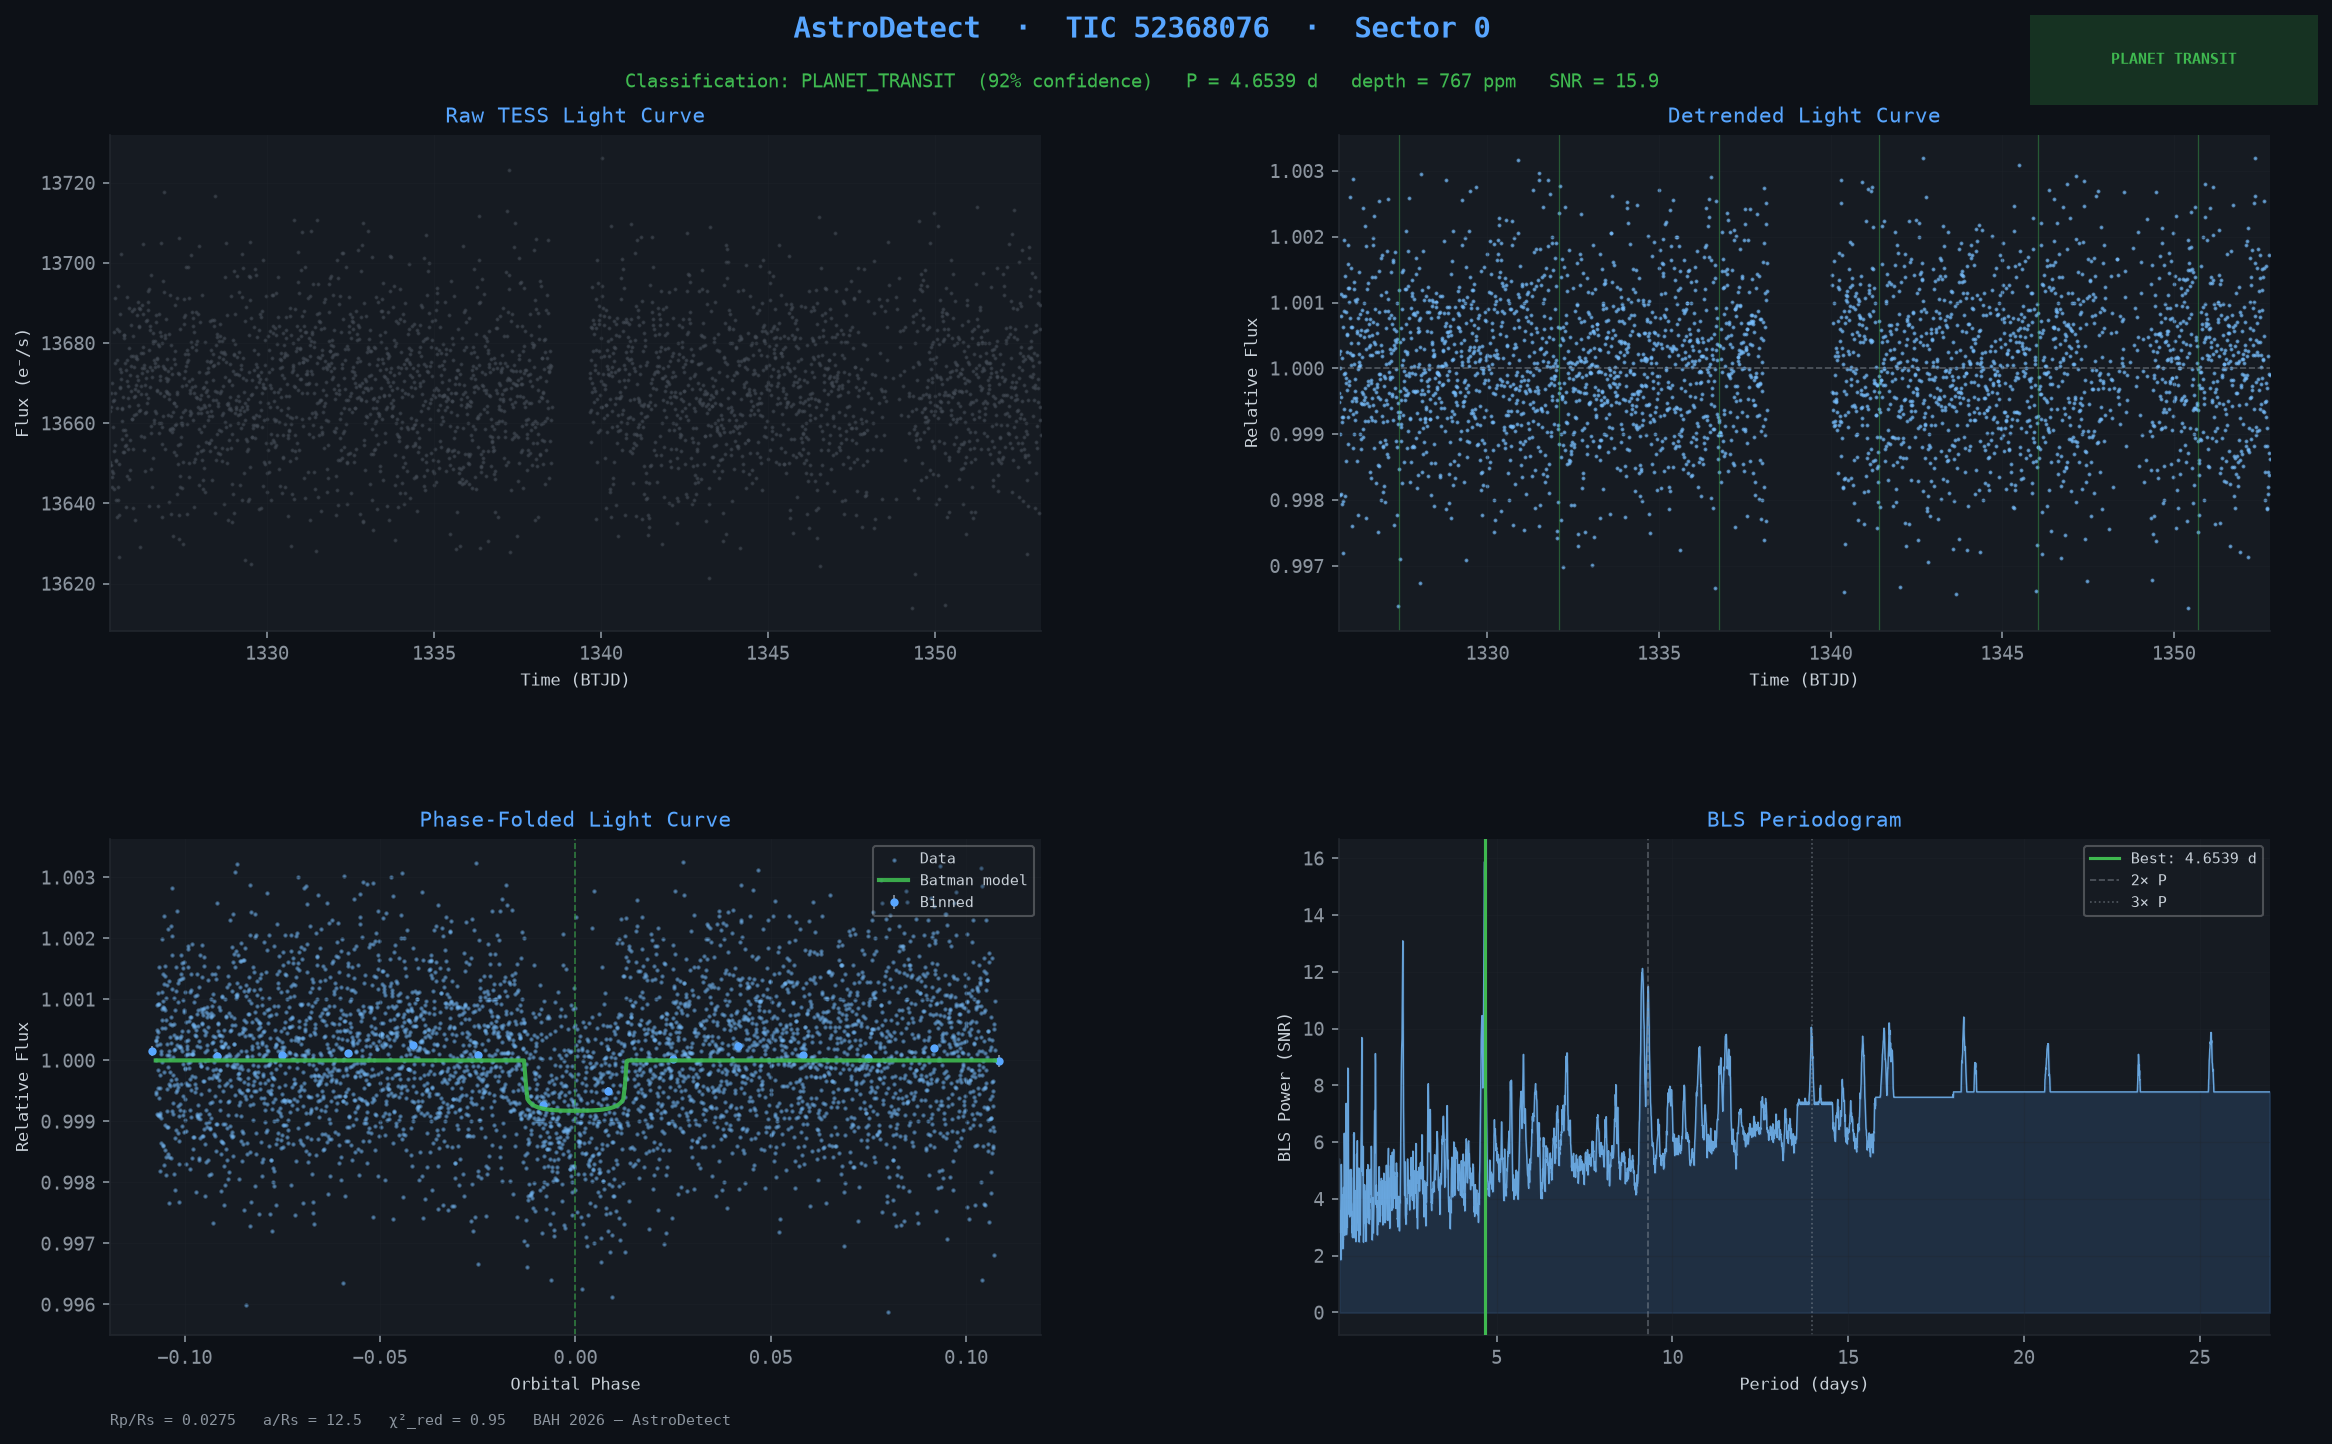
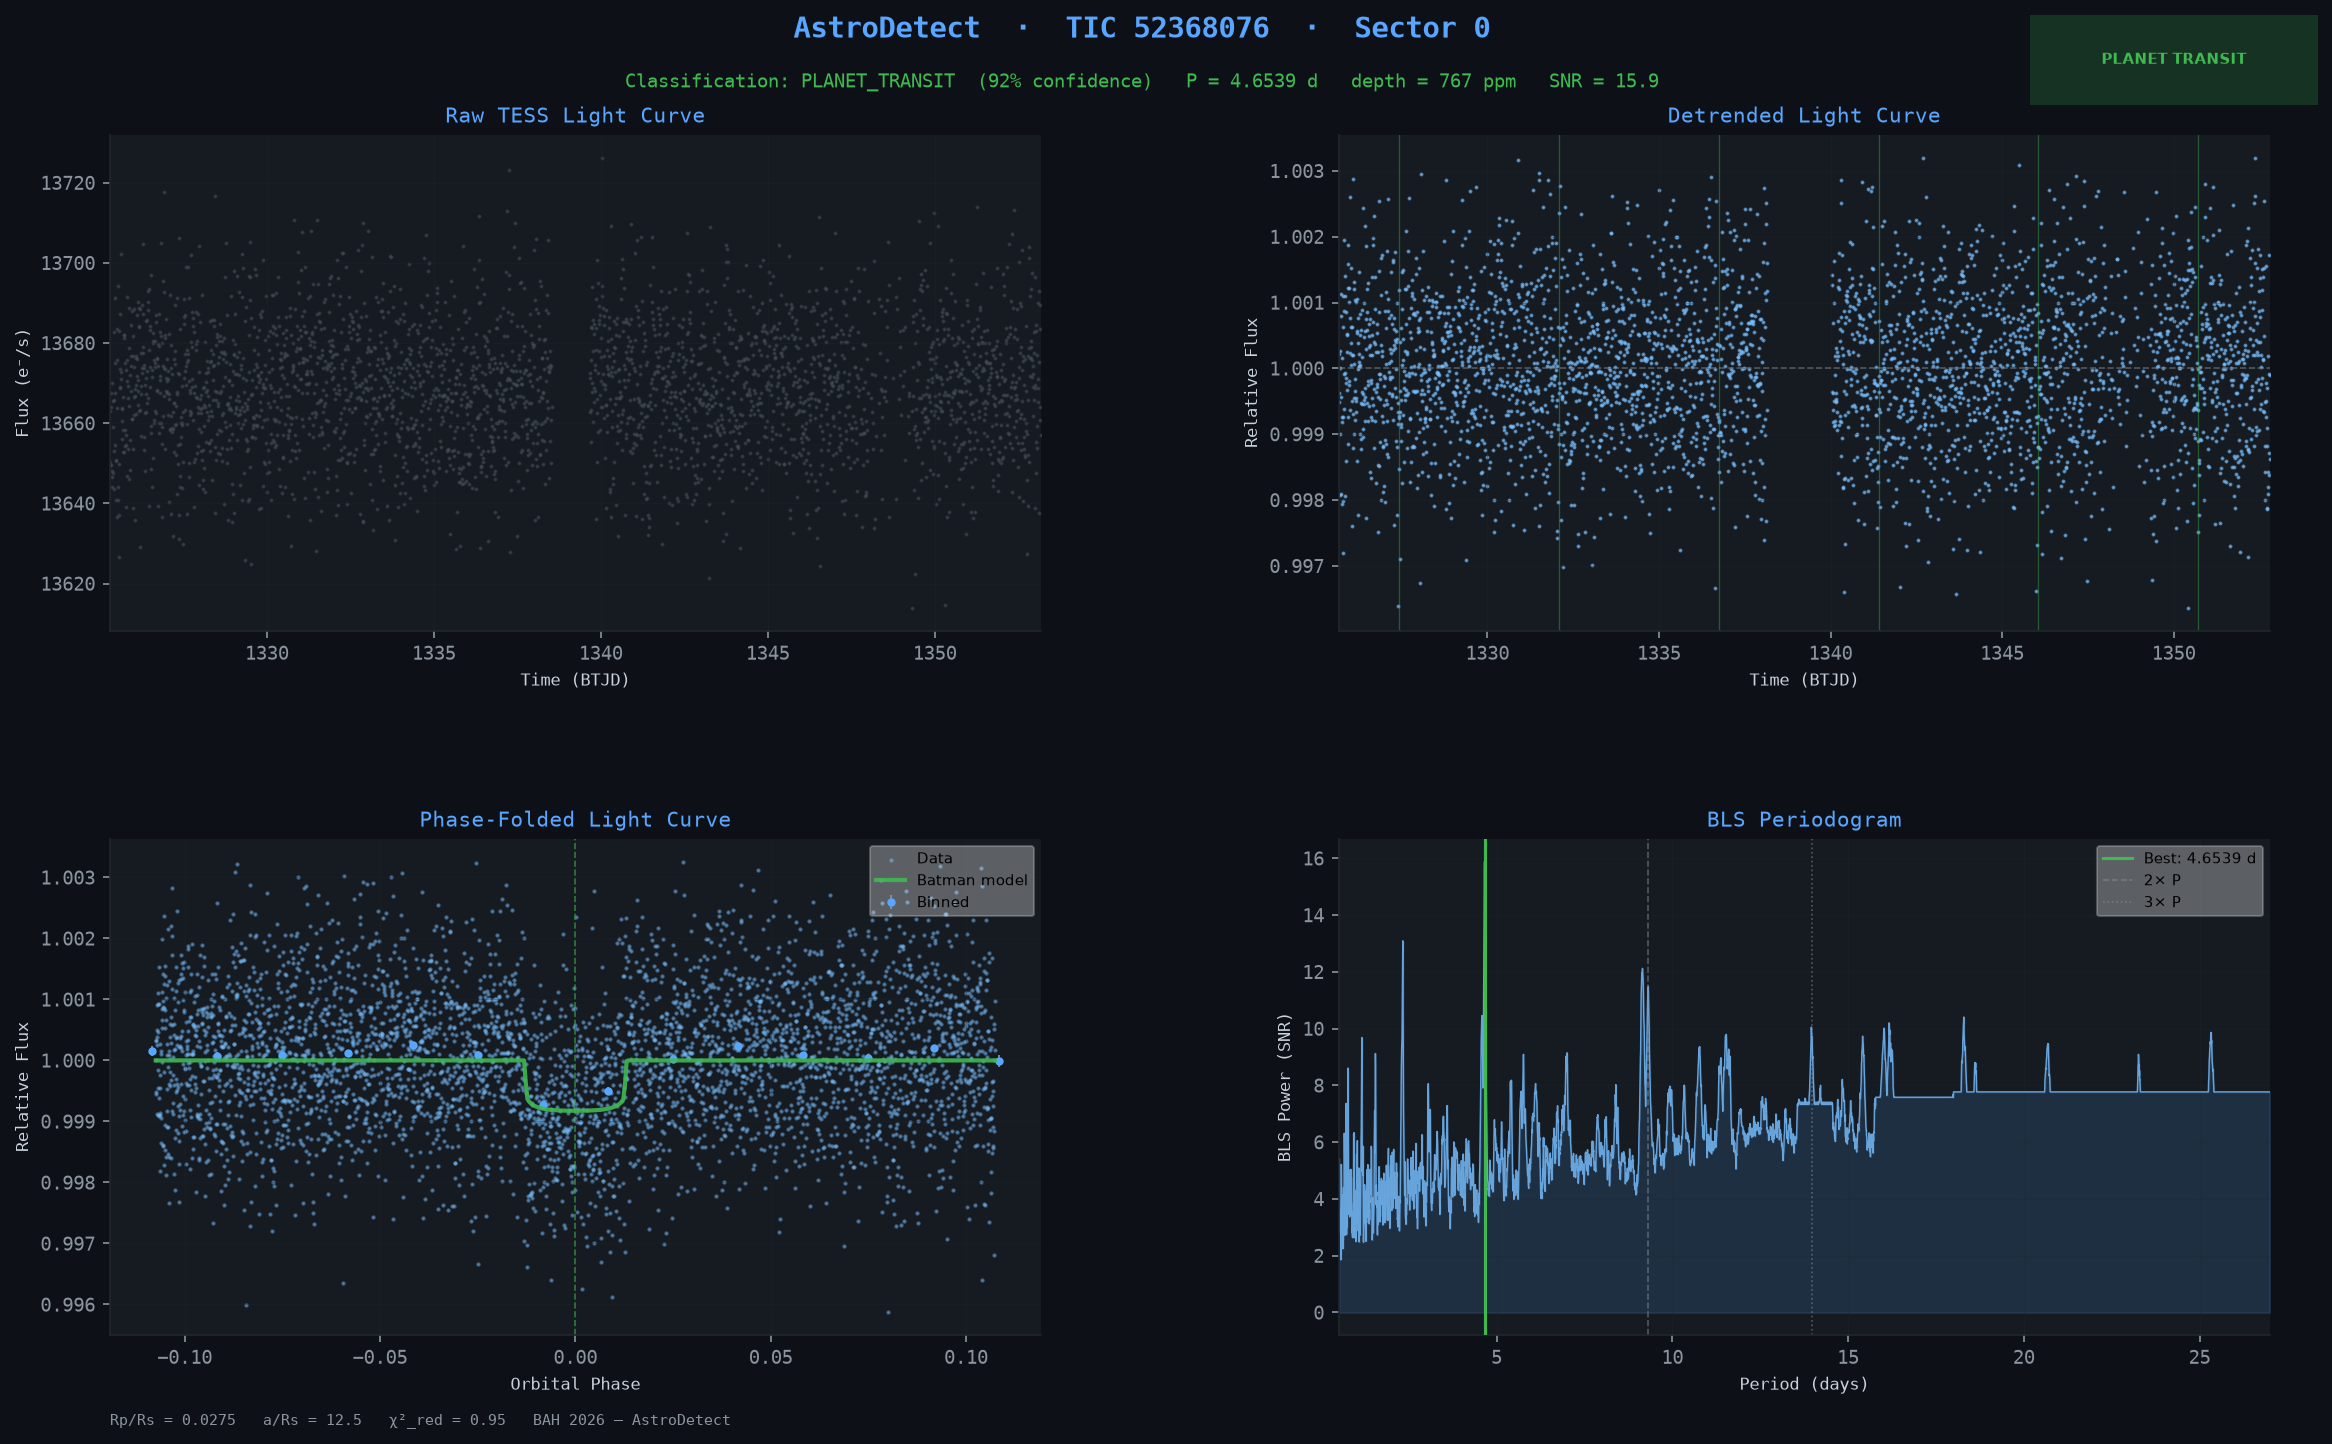
chore: ignore output images and update documentation with tech stack details

Changed region(s): [[0.8954, 0.5609, 0.988, 0.6544], [0.3705, 0.5609, 0.4631, 0.6544], [0.8954, 0.0312, 0.9571, 0.0623]]

diff --git a/README.md b/README.md
@@ -12,6 +12,26 @@ An end-to-end, AI-driven data analysis pipeline designed to detect and classify 
 
 ---
 
+## 🛠️ Tech Stack
+
+### Frontend (User Interface)
+* **[Next.js](https://nextjs.org/) & React:** The core framework used for building a fast, interactive, and modern single-page application.
+* **[Tailwind CSS](https://tailwindcss.com/):** A utility-first CSS framework used for styling the application, ensuring a responsive and cohesive "space-themed" design system.
+* **[Framer Motion](https://www.framer.com/motion/):** A physics-based animation library used to create smooth transitions, layout changes, and interactive UI micro-animations (like the scanning radar).
+* **[Plotly.js](https://plotly.com/javascript/):** A graphing library used to render the highly interactive "Light Curve" and "Phase Fold" charts, allowing users to zoom, pan, and inspect thousands of data points without lag.
+* **[Three.js](https://threejs.org/) & [@react-three/fiber](https://docs.pmnd.rs/react-three-fiber):** Used to power the 3D **Orbit View** tab. It calculates and renders the tilted, interactive 3D representation of the exoplanet's orbit in real-time.
+
+### Backend (Data Pipeline & Astronomy)
+* **[Python 3](https://www.python.org/) & [FastAPI](https://fastapi.tiangolo.com/):** A modern, high-performance web framework for building the backend API that serves data to the frontend and manages asynchronous pipeline jobs.
+* **[Lightkurve](https://docs.lightkurve.org/):** A package for analyzing astronomical flux time series data, specifically used to download and parse raw Kepler and TESS light curves directly from NASA MAST.
+* **[Wōtan](https://github.com/hippke/wotan):** An algorithm suite used in the preprocessing stage to remove long-term stellar trends, instrumental artifacts, and noise from the raw light curve (detrending).
+* **[Astropy](https://www.astropy.org/):** The core library for astronomy in Python. Used for time conversions (like converting system time to BTJD) and astronomical coordinate logic.
+* **[batman](https://lkreidberg.github.io/batman/docs/html/index.html):** (Bad-Ass Transit Model cAlculatioN) A package used to generate theoretical, analytical transit light curves based on physical parameters (radius, inclination, limb darkening).
+* **[LMFIT](https://lmfit.github.io/lmfit-py/):** A non-linear least-squares optimization library used to "fit" the `batman` theoretical models to the actual noisy data to extract physical parameters (like the $R_p/R_s$ ratio).
+* **[Matplotlib](https://matplotlib.org/):** Used at the very end of the pipeline to generate and save a highly detailed, static PNG visualization report of the entire analysis.
+
+---
+
 ## 🚀 Step-by-Step Guide: How to Run AstroDetect
 
 AstroDetect is split into two parts: a **Python FastApi Backend** (which handles all the heavy astronomy calculations) and a **Next.js React Frontend** (which provides the interactive UI). You will need to run both simultaneously in two separate terminal windows.